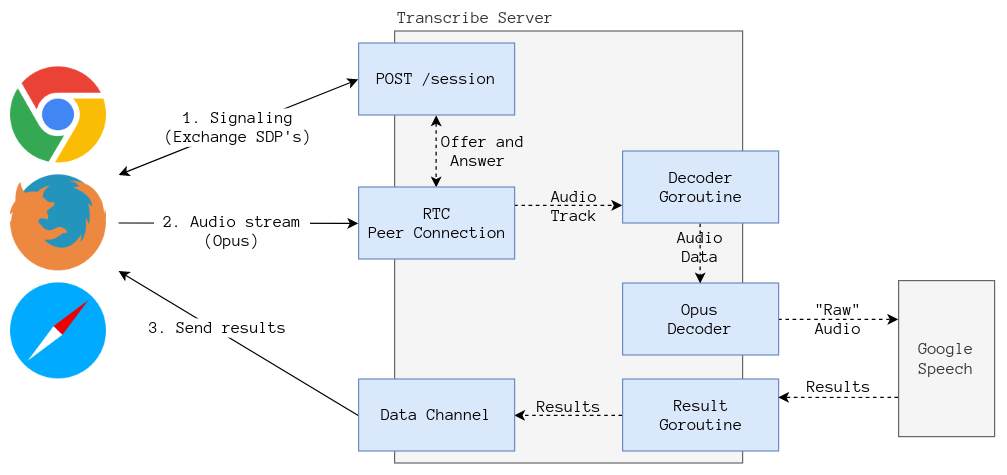
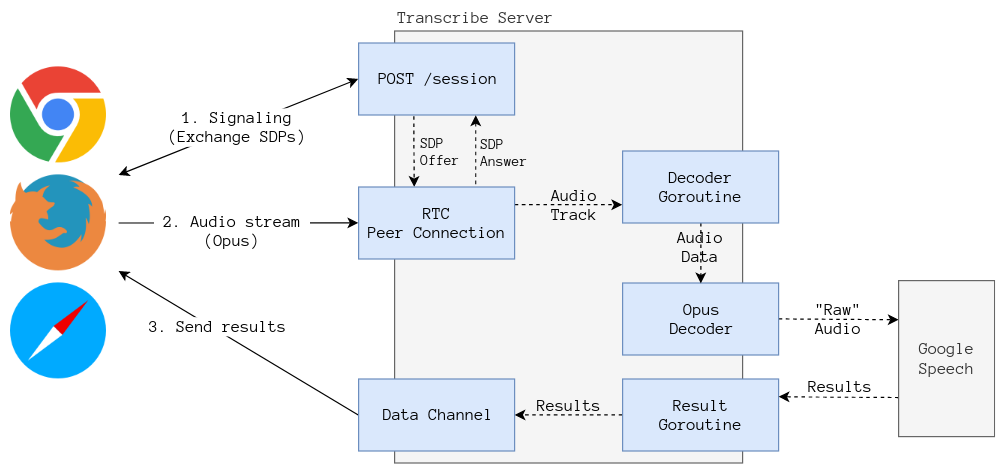
Changed the arch. diagram slightly

diff --git a/README.md b/README.md
@@ -7,7 +7,7 @@ The speech to text server only depends on [Go 1.12](https://golang.org/doc/insta
 ### Disclaimer
 
 **This project is only a proof of concept and SHOULDN'T be deployed on a production 
-environment as it lacks even the most basic security measurements.**
+environment as it lacks even the most basic security measures.**
 
 ### Build the project
 
@@ -52,6 +52,12 @@ Say something and press the **Stop** button, the results (if any) should appear 
 ### Architecture
 
 ![Architecture and data flow](docs/architecture.png)
+
+### Coming soon
+
+- Unit tests.
+- Be able to specify the desired language.
+- Support for interim results.
 
 ### License
 
